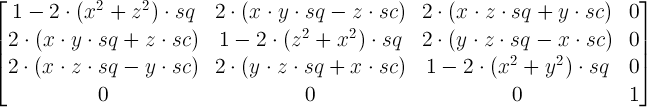
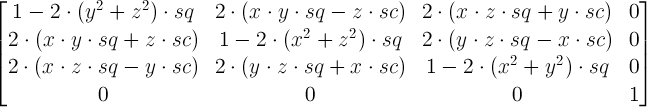
2012-02-13 dschulze@adobe.com     Corrected mistake in the rotate3d matrix.     Changed wording in introduction to match SVG and HTML.     Use capital letters on main headlines for nouns.     Fixed typos.

Changed region(s): [[0.0618, 0.028, 0.1855, 0.2243], [0.4328, 0.2523, 0.5564, 0.4486], [0.2164, 0.028, 0.3091, 0.2243]]

diff --git a/css3-transforms/Overview.html b/css3-transforms/Overview.html
@@ -36,15 +36,15 @@
 
    <h1>CSS Transforms</h1>
 
-   <h2 class="no-num no-toc" id=longstatus-date>Editor's Draft 13 February
+   <h2 class="no-num no-toc" id=longstatus-date>Editor's Draft 14 February
     2012</h2>
 
    <dl>
     <dt>This version:
 
     <dd> <a
-     href="http://www.w3.org/TR/2012/ED-css3-transforms-20120213/">http://dev.w3.org/csswg/css3-transforms/</a>
-     <!--http://www.w3.org/TR/2012/WD-css3-transforms-20120213-->
+     href="http://www.w3.org/TR/2012/ED-css3-transforms-20120214/">http://dev.w3.org/csswg/css3-transforms/</a>
+     <!--http://www.w3.org/TR/2012/WD-css3-transforms-20120214-->
 
     <dt>Latest version:
 
@@ -213,10 +213,10 @@
     Values and Lists </a>
 
    <li><a href="#animation"><span class=secno>14. </span> Transitions and
-    animations between transform values </a>
+    Animations between Transform Values </a>
 
    <li><a href="#matrix-decomposition"><span class=secno>15. </span> Matrix
-    decomposition for animation </a>
+    Decomposition for Animation </a>
     <ul class=toc>
      <li><a href="#unmatrix"><span class=secno>15.1. </span>Unmatrix</a>
 
@@ -228,7 +228,7 @@
     </ul>
 
    <li><a href="#mathematical-description"><span class=secno>16. </span>
-    Mathematical description of transformation functions </a>
+    Mathematical Description of Transformation Functions </a>
 
    <li><a href="#dom-interfaces"><span class=secno>17. </span> DOM Interfaces
     </a>
@@ -259,10 +259,10 @@
   <p><em>This section is not normative.</em>
 
   <p> The CSS <a href="http://www.w3.org/TR/REC-CSS2/visuren.html">visual
-   formatting model</a> describes a coordinate system within which each
-   element is positioned. Positions and sizes in this coordinate space can be
-   thought of as being expressed in pixels, starting in the upper left corner
-   of the parent with positive values proceeding to the right and down.
+   formatting model</a> describes a coordinate system within each element is
+   positioned. Positions and sizes in this coordinate space can be thought of
+   as being expressed in pixels, starting in the origin of point with
+   positive values proceeding to the right and down.
 
   <p> This coordinate space can be modified with the <a href="#effects"><code
    class=property>'transform'</code></a> property. Using transform, elements
@@ -822,9 +822,9 @@ div { height: 150px; width: 150px; }
    class=property>'transform'</code></a> property. This property contains a
    list of <a href="#transform-functions">transform functions</a>. The final
    transformation value for a coordinate system is obtained by converting
-   each function in the list to its corresponding matrix (either defined in
-   this specification or by reference to the SVG specification), then
-   multiplying the matrices.
+   each function in the list to its corresponding matrix like defined in <a
+   href="#mathematical-description">Mathematical Description of
+   Transformation Functions</a>, then multiplying the matrices.
 
   <table class=propdef>
    <tbody>
@@ -1527,8 +1527,8 @@ div { height: 150px; width: 150px; }
    is the matrix multiplication of the list of transforms.</p>
   <!-- ======================================================================================================= -->
 
-  <h2 id=animation><span class=secno>14. </span> Transitions and animations
-   between transform values</h2>
+  <h2 id=animation><span class=secno>14. </span> Transitions and Animations
+   between Transform Values</h2>
 
   <p> When animating or transitioning the value of a transform property the
    rules described below are applied. The &lsquo;<code
@@ -1616,7 +1616,7 @@ div { height: 150px; width: 150px; }
    transformed element is not rendered.
 
   <h2 id=matrix-decomposition><span class=secno>15. </span> Matrix
-   decomposition for animation</h2>
+   Decomposition for Animation</h2>
 
   <p> When interpolating between 2 matrices, each is decomposed into the
    corresponding translation, rotation, scale, skew and perspective values.
@@ -1793,7 +1793,7 @@ div { height: 150px; width: 150px; }
           scale3d(scale[0], scale[1], scale[2])</pre>
 
   <h2 id=mathematical-description><span class=secno>16. </span> Mathematical
-   description of transformation functions</h2>
+   Description of Transformation Functions</h2>
 
   <p> Mathematically, all transformation functions can be represented as 4x4
    transformation matrices of the following form:
@@ -1850,12 +1850,12 @@ div { height: 150px; width: 150px; }
     <p> A 3D rotation with the vector [x,y,z] and the parameter
      <em>alpha</em> is equivalent to the matrix:</p>
     <img height=106 src=rotate3dmatrix.png
-    title="\begin{bmatrix} 1 - 2 \cdot (x^2 + z^2) \cdot sq & 2 \cdot (x \cdot y \cdot sq - z \cdot sc) & 2 \cdot (x \cdot z \cdot sq + y \cdot sc) & 0 \\ 2 \cdot (x \cdot y \cdot sq + z \cdot sc) & 1 - 2 \cdot (z^2 + x^2) \cdot sq & 2 \cdot (y \cdot z \cdot sq - x \cdot sc) & 0 \\ 2 \cdot (x \cdot z \cdot sq - y \cdot sc) & 2 \cdot (y \cdot z \cdot sq + x \cdot sc) & 1 - 2 \cdot (x^2 + y^2) \cdot sq & 0 \\ 0 & 0 & 0 & 1 \end{bmatrix}"
+    title="\begin{bmatrix} 1 - 2 \cdot (y^2 + z^2) \cdot sq & 2 \cdot (x \cdot y \cdot sq - z \cdot sc) & 2 \cdot (x \cdot z \cdot sq + y \cdot sc) & 0 \\ 2 \cdot (x \cdot y \cdot sq + z \cdot sc) & 1 - 2 \cdot (x^2 + z^2) \cdot sq & 2 \cdot (y \cdot z \cdot sq - x \cdot sc) & 0 \\ 2 \cdot (x \cdot z \cdot sq - y \cdot sc) & 2 \cdot (y \cdot z \cdot sq + x \cdot sc) & 1 - 2 \cdot (x^2 + y^2) \cdot sq & 0 \\ 0 & 0 & 0 & 1 \end{bmatrix}"
     width=647>
     <p> where:</p>
     <img height=50 src=rotate3dvariables.png
-    title="\newline sc = \sin (\alpha) \cdot \cos (\alpha) \newline sq = \sin^2 (\alpha)"
-    width=177>
+    title="\newline sc = \sin (\alpha/2) \cdot \cos (\alpha/2) \newline sq = \sin^2 (\alpha/2)"
+    width=221>
 
    <li id=RotateXDefined>
     <p> A 3D rotation about the X axis with the parameter <em>alpha</em> is

diff --git a/css3-transforms/Transforms.src.html b/css3-transforms/Transforms.src.html
@@ -90,11 +90,10 @@
           <p><em>This section is not normative.</em></p>
           <p>
             The CSS <a href="http://www.w3.org/TR/REC-CSS2/visuren.html">visual
-            formatting model</a> describes a coordinate system within which each
+            formatting model</a> describes a coordinate system within each
             element is positioned. Positions and sizes in this coordinate space can
-            be thought of as being expressed in pixels, starting in the upper left
-            corner of the parent with positive values proceeding to the right and
-            down.
+            be thought of as being expressed in pixels, starting in the origin of point
+            with positive values proceeding to the right and down.
           </p>
           <p>
             This coordinate space can be modified with the <code
@@ -577,9 +576,8 @@ div { height: 150px; width: 150px; }
                 renders in through the <code class="property">'transform'</code> property. This property contains a
                 list of <a href="#transform-functions">transform functions</a>. The
                 final transformation value for a coordinate system is obtained by converting
-                each function in the list to its corresponding matrix (either defined in
-                this specification or by reference to the SVG specification), then multiplying
-                the matrices.
+                each function in the list to its corresponding matrix like defined in <a href="#mathematical-description">Mathematical
+                Description of Transformation Functions</a>, then multiplying the matrices.
               </p>
               <table class="propdef">
                 <tbody>
@@ -1384,7 +1382,7 @@ div { height: 150px; width: 150px; }
           <!-- ======================================================================================================= -->
 
               <h2 id="animation">
-                Transitions and animations between transform values
+                Transitions and Animations between Transform Values
               </h2>
 
               <p>
@@ -1493,7 +1491,7 @@ div { height: 150px; width: 150px; }
               </p>
 
               <h2 id="matrix-decomposition">
-                Matrix decomposition for animation
+                Matrix Decomposition for Animation
               </h2>
 
               <p>
@@ -1666,7 +1664,7 @@ div { height: 150px; width: 150px; }
           scale3d(scale[0], scale[1], scale[2])</pre>
           
               <h2 id="mathematical-description">
-                Mathematical description of transformation functions
+                Mathematical Description of Transformation Functions
               </h2>
               <p>
                 Mathematically, all transformation functions can be represented as 4x4 transformation matrices of the following form:
@@ -1717,11 +1715,11 @@ div { height: 150px; width: 150px; }
                   <p>
                     A 3D rotation with the vector [x,y,z] and the parameter <em>alpha</em> is equivalent to the matrix:
                   </p>
-                  <img src="rotate3dmatrix.png" title="\begin{bmatrix} 1 - 2 \cdot (x^2 + z^2) \cdot sq & 2 \cdot (x \cdot y \cdot sq - z \cdot sc) & 2 \cdot (x \cdot z \cdot sq + y \cdot sc) & 0 \\ 2 \cdot (x \cdot y \cdot sq + z \cdot sc) & 1 - 2 \cdot (z^2 + x^2) \cdot sq & 2 \cdot (y \cdot z \cdot sq - x \cdot sc) & 0 \\ 2 \cdot (x \cdot z \cdot sq - y \cdot sc) & 2 \cdot (y \cdot z \cdot sq + x \cdot sc) & 1 - 2 \cdot (x^2 + y^2) \cdot sq & 0 \\ 0 & 0 & 0 & 1 \end{bmatrix}" width="647" height="106">
+                  <img src="rotate3dmatrix.png" title="\begin{bmatrix} 1 - 2 \cdot (y^2 + z^2) \cdot sq & 2 \cdot (x \cdot y \cdot sq - z \cdot sc) & 2 \cdot (x \cdot z \cdot sq + y \cdot sc) & 0 \\ 2 \cdot (x \cdot y \cdot sq + z \cdot sc) & 1 - 2 \cdot (x^2 + z^2) \cdot sq & 2 \cdot (y \cdot z \cdot sq - x \cdot sc) & 0 \\ 2 \cdot (x \cdot z \cdot sq - y \cdot sc) & 2 \cdot (y \cdot z \cdot sq + x \cdot sc) & 1 - 2 \cdot (x^2 + y^2) \cdot sq & 0 \\ 0 & 0 & 0 & 1 \end{bmatrix}" width="647" height="106">
                   <p>
                     where:
                   </p>
-                  <img src="rotate3dvariables.png" title="\newline sc = \sin (\alpha) \cdot \cos (\alpha) \newline sq = \sin^2 (\alpha)" width="177" height="50">
+                  <img src="rotate3dvariables.png" title="\newline sc = \sin (\alpha/2) \cdot \cos (\alpha/2) \newline sq = \sin^2 (\alpha/2)" width="221" height="50">
                 </li>
                 <li id="RotateXDefined">
                   <p>
